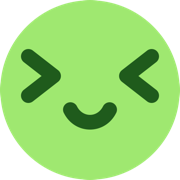
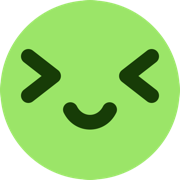
fix: clear demo data and unify app branding

Changed region(s): [[0.6667, 0.25, 0.8889, 0.5833], [0.1111, 0.25, 0.3333, 0.5833], [0.3333, 0.5556, 0.6667, 0.7222]]

diff --git a/app-v2.js b/app-v2.js
@@ -2,6 +2,7 @@
   "use strict";
 
   const STORE = "serene-personal-workspace-v1";
+  const RESET_MARKER = `${STORE}:cleared`;
   const APP_VERSION = "v1.4.2";
   const LANGUAGE_STORE = "kinetic-life-os:language";
   let currentLanguage = localStorage.getItem(LANGUAGE_STORE) === "en" ? "en" : "zh";
@@ -1142,6 +1143,28 @@
     return state;
   }
 
+  function clearedState(base) {
+    return {
+      ...base,
+      goals: [],
+      priorities: [],
+      projects: [],
+      milestones: [],
+      events: [],
+      days: {},
+      workoutPlanChanges: [],
+      weightHistory: [],
+      reminders: [],
+      focusSeconds: 1500,
+      routineItems: normalizeRoutineItems(),
+      supplementaryTraining: cloneSupplementaryTraining(),
+      breezeGuide: createDefaultBreezeGuide(),
+      migratedToV2: true,
+      nonPersonalDemoDataApplied: true,
+      demoLanguageRecordsApplied: true
+    };
+  }
+
   function preserveFitnessDays(baseDays, rawDays) {
     const preserved = {};
     const source = rawDays && typeof rawDays === "object" ? rawDays : {};
@@ -1601,6 +1624,7 @@
   function loadState() {
     const base = defaultState();
     try {
+      if (localStorage.getItem(RESET_MARKER) === "true") return clearedState(base);
       const raw = JSON.parse(localStorage.getItem(STORE) || "null");
       if (!raw || typeof raw !== "object") return buildDemoState(base, null);
       const resettingNonFitnessData = Number(raw.version) < 5 || raw.nonPersonalDemoDataApplied !== true;
@@ -1872,6 +1896,7 @@
   }
 
   function save() {
+    localStorage.removeItem(RESET_MARKER);
     localStorage.setItem(STORE, JSON.stringify(state));
   }
 
@@ -3702,6 +3727,7 @@
     if (action === "reset") {
       if (!confirm("确定清除当前设备的全部工作台记录吗？此操作无法撤销。")) return;
       localStorage.removeItem(STORE);
+      localStorage.setItem(RESET_MARKER, "true");
       location.reload();
     }
   });

diff --git a/index.html b/index.html
@@ -8,6 +8,7 @@
   <meta name="apple-mobile-web-app-capable" content="yes" />
   <meta name="apple-mobile-web-app-status-bar-style" content="default" />
   <link rel="manifest" href="manifest.webmanifest" />
+  <link rel="icon" type="image/svg+xml" href="assets/icon.svg?v=2" />
   <link rel="apple-touch-icon" sizes="180x180" href="assets/icon-smile-180.png" />
   <meta name="robots" content="noindex,nofollow,noarchive,nosnippet" />
   <meta name="referrer" content="no-referrer" />
@@ -263,7 +264,7 @@
     document.getElementById('focusSeconds')?.remove();renderFocus();renderAll();const initial=PAGE_NAMES[location.hash.slice(1)]?location.hash.slice(1):'home';switchPage(initial,false);
   })();
   </script>
-    <script src="app-v2.js?v=85" defer></script>
+    <script src="app-v2.js?v=86" defer></script>
   <script>
     if ("serviceWorker" in navigator) {
       window.addEventListener("load", () => {
@@ -273,7 +274,7 @@
           refreshing = true;
           window.location.reload();
         });
-        navigator.serviceWorker.register("./service-worker.js?v=48", { scope: "./", updateViaCache: "none" })
+        navigator.serviceWorker.register("./service-worker.js?v=49", { scope: "./", updateViaCache: "none" })
           .then((registration) => registration.update().catch(() => {}))
           .catch(() => {});
       });

diff --git a/app.js b/app.js
@@ -2,6 +2,7 @@
   "use strict";
 
   const STORE = "kinetic-life-os:data:v1";
+  const RESET_MARKER = `${STORE}:cleared`;
   const pad = (value) => String(value).padStart(2, "0");
   const keyOf = (date) => `${date.getFullYear()}-${pad(date.getMonth() + 1)}-${pad(date.getDate())}`;
   const fromKey = (key) => {
@@ -1199,6 +1200,7 @@
     if (action === "reset") {
       if (!confirm("确定清除当前设备的全部工作台记录吗？此操作无法撤销。")) return;
       localStorage.removeItem(STORE);
+      localStorage.setItem(RESET_MARKER, "true");
       location.reload();
     }
   });

diff --git a/service-worker.js b/service-worker.js
@@ -1,9 +1,9 @@
-const CACHE_NAME = "kinetic-life-os-v48-shell";
+const CACHE_NAME = "kinetic-life-os-v49-shell";
 const APP_SHELL = [
   "./",
   "./index.html",
   "./app-v2.css?v=86",
-  "./app-v2.js?v=85",
+  "./app-v2.js?v=86",
   "./assets/icon-smile-180.png",
   "./assets/icon-smile-192.png",
   "./assets/icon-smile-512.png"
